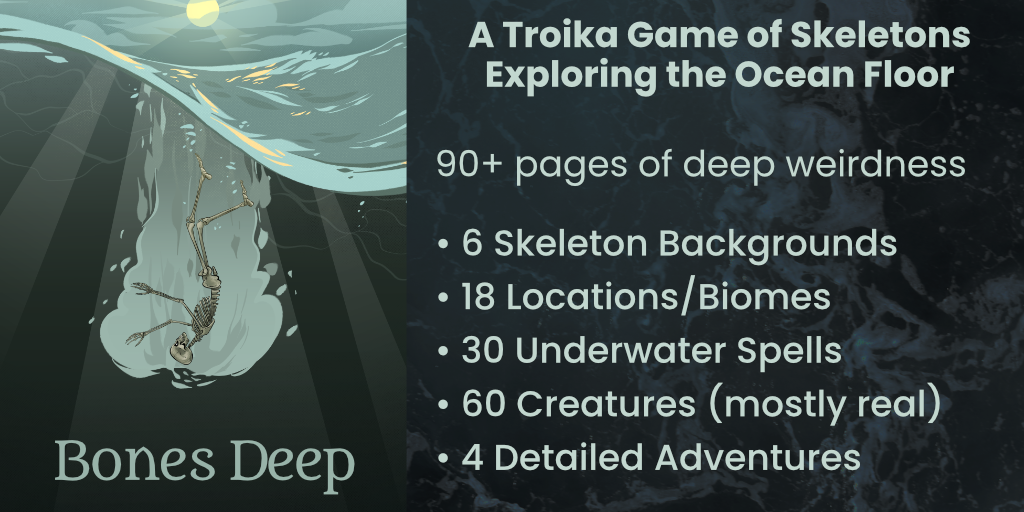
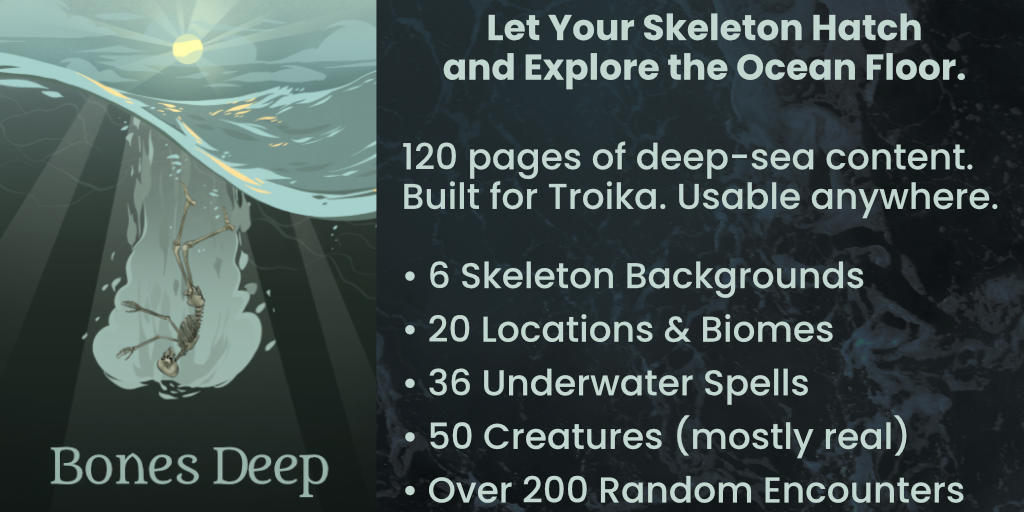
updated bd page

Changed region(s): [[0.0, 0.0, 0.9688, 1.0], [0.0312, 0.8438, 0.3438, 0.9688]]

diff --git a/_games/bones-deep.md b/_games/bones-deep.md
@@ -15,24 +15,40 @@ featured: false
 ---
 
 <div class="shoppingCard">
-  <p>Bones Deep is a Troika Game of Skeletons Exploring the Ocean Floor. Troika is a tabletop roleplaying game of weird fantasy. Bones Deep is a standalone expansion, with new rules and adventures.</p>
-  <p><i>84 Pages, Color Pages, A5 Digest Book.</i></p>
+  <p>Bones Deep is a Troika game of skeletons exploring the ocean floor. Built for Troika, usable anywhere.</p>
+  <p><i>120 Pages, Color Pages, A5 Digest Book.</i></p>
   <div class="shoppingButtons">
-    <a target="_blank" href="https://davidschirduan.itch.io/bones-deep" class="btn shoppingButton itchBTN"><strong>PDF: $10</strong><br>at Itch.io</a>
+    <a target="_blank" href="https://davidschirduan.itch.io/bones-deep" class="btn shoppingButton itchBTN"><strong>PDF: $15</strong><br>at Itch.io</a>
     <a target="_blank" href="/files/BonesDeep_sheets.pdf" class="btn shoppingButton itchBTN"><strong>Character Sheets</strong></a>
   </div>
 </div>
 
-[![BD_marketing_2.png](/images/BD_marketing_2.png)](https://davidschirduan.itch.io/bones-deep)
+![BD_marketing_1.png](/images/BD_marketing_1.png)
 
-## The Book Includes:
+## Kickstarter
 
-* 90+ pages of deep-sea weirdness
-* 6 skeleton backgrounds
-* 18 locations / biomes
-* 30 underwater spells
-* 60 creatures inspired by real deep-sea life
+[**Support the Kickstarter and help us make a hardcover print run!**](https://www.kickstarter.com/projects/technicalgrimoire/bones-deep/)
 
+![BD_marketing_2.png](/images/BD_marketing_2.png)
+
+**Straightforward underwater sandbox.** No swimming allowed, no oxygen required, no extra math. As a skeleton, you can treat the ocean floor like an alien world and jump right in.
+
+**Emergent adventures.** Every random encounter in Bones Deep aims to draw you deeper into the setting. Warring factions, clues to hidden treasure, terrible foes, cute pets, and nefarious mysteries all compete for your attention. The book includes 5 detailed quests to kick off your campaign. 
+
+**More real than you’d imagine.** It was written by a team of folks who were heavily inspired by real deep-sea life, including a boat captain and an underwater educator. We even wrote the real-world scientific names of creatures so players can marvel at the wonders of the deep.
+
+![BD_marketing_12.png](/images/BD_marketing_12.png)
+
+### The Book Includes:
+
+ - 120 pages of underwater weirdness.
+ - 6 skeleton backgrounds, ranging from cute to creepy.
+ - 20 locations, each with a dozen encounters.
+ - 36 spells inspired by ocean phenomena.
+ - 50 creatures inspired by real deep-sea life.
+ - 5 adventures to kick off your campaign.
+
+![BD_marketing_13.png](/images/BD_marketing_13.png)
 ![BD_marketing_3.png](/images/BD_marketing_3.png)
-![BD_marketing_4.png](/images/BD_marketing_4.png)
-![BD_marketing_5.png](/images/BD_marketing_5.png)
+![BD_marketing_10.png](/images/BD_marketing_10.png)
+![BD_marketing_11.png](/images/BD_marketing_11.png)
